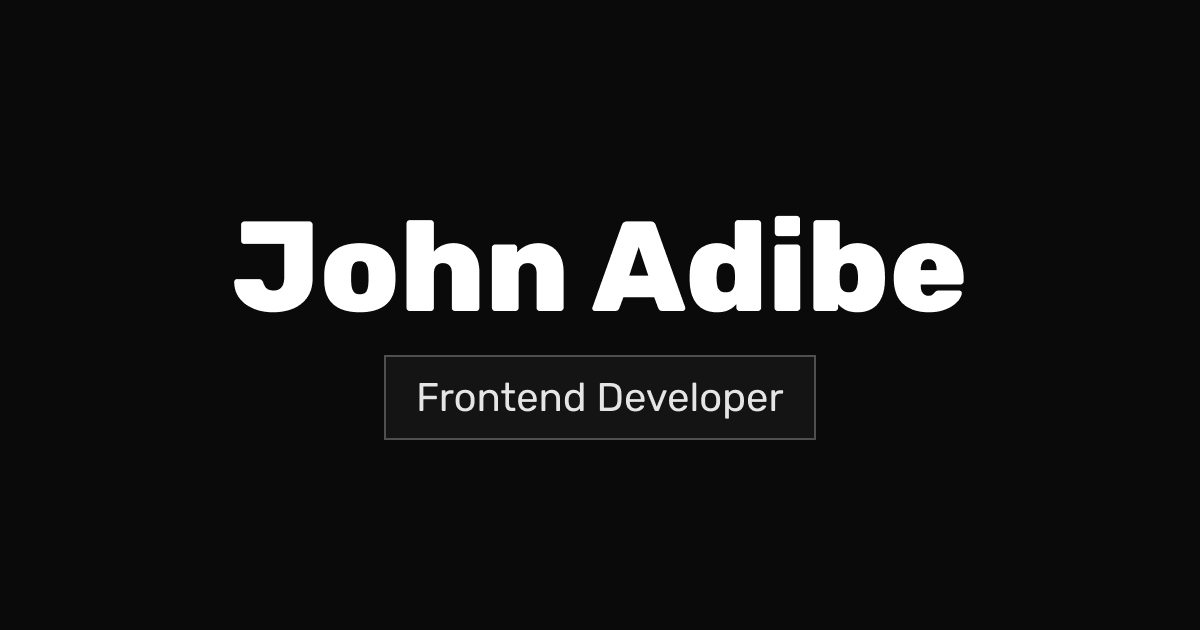
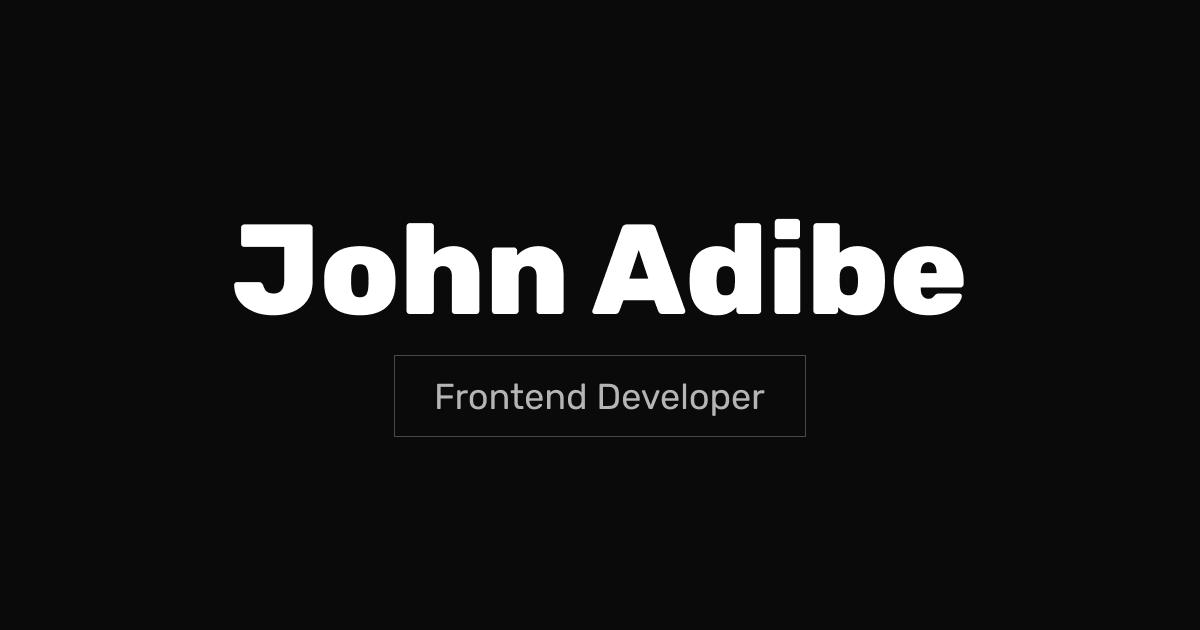
chore: ui and og updates

diff --git a/src/pages/home.tsx b/src/pages/home.tsx
@@ -16,12 +16,14 @@ const Home = () => {
             John Adibe
           </h1>
           <h2 className="text-lg sm:text-2xl animate-fade-in">
-            Frontend Developer at Product Studio
+            Frontend Developer @ Product Studio
           </h2>
           <p className="text-zinc-400 text-base sm:text-lg font-light max-w-lg animate-fade-in">
             <span className="text-orange-strong">Building interfaces</span>. I
             create accessible web products and cross-platform solutions.{" "}
-            <em className="bg-zinc-50/5 py-1 px-2 font-none">Meticulously.</em>
+            <em className="py-1 px-2 font-serif border text-base">
+              Meticulously.
+            </em>
           </p>
           <div className="flex gap-5 mt-8">
             {SOCIAL_LINKS.map((item, idx) => (
@@ -108,11 +110,11 @@ const Home = () => {
       <section id="projects" className="container pt-24 md:pt-40">
         <div className="max-w-2xl">
           <Title title="Projects" />
-          <p className="text-zinc-500 text-lg mt-3">
+          <p className="text-zinc-500 text-base md:text-lg mt-2">
             These are some of the projects I've worked on.
           </p>
         </div>
-        <div className="grid grid-cols-1 md:grid-cols-2 gap-5 md:gap-8 mt-10">
+        <div className="grid grid-cols-1 md:grid-cols-2 gap-5 md:gap-8 mt-4 md:mt-8">
           <div className="flex flex-col gap-5 md:gap-8">
             {PROJECTS.filter((_, idx) => idx % 2 === 0).map((project, idx) => (
               <ProjectCard key={idx} {...project} />

diff --git a/src/components/project-card.tsx b/src/components/project-card.tsx
@@ -26,7 +26,7 @@ const ProjectCard = (props: ProjectCardProps) => {
         </div>
       </div>
       {props.image ? (
-        <img src={props.image} alt={props.name} className="w-full border" />
+        <img src={props.image} alt={props.name} className="w-full" />
       ) : null}
       <h3 className="text-zinc-50 font-bold text-xl sm:text-2xl">
         {props.name}

diff --git a/tailwind.config.js b/tailwind.config.js
@@ -2,9 +2,6 @@
 export default {
   content: ["./index.html", "./src/**/*.{js,ts,jsx,tsx}"],
   theme: {
-    fontFamily: {
-      none: ["No Font Family"],
-    },
     extend: {
       colors: {
         orange: {
